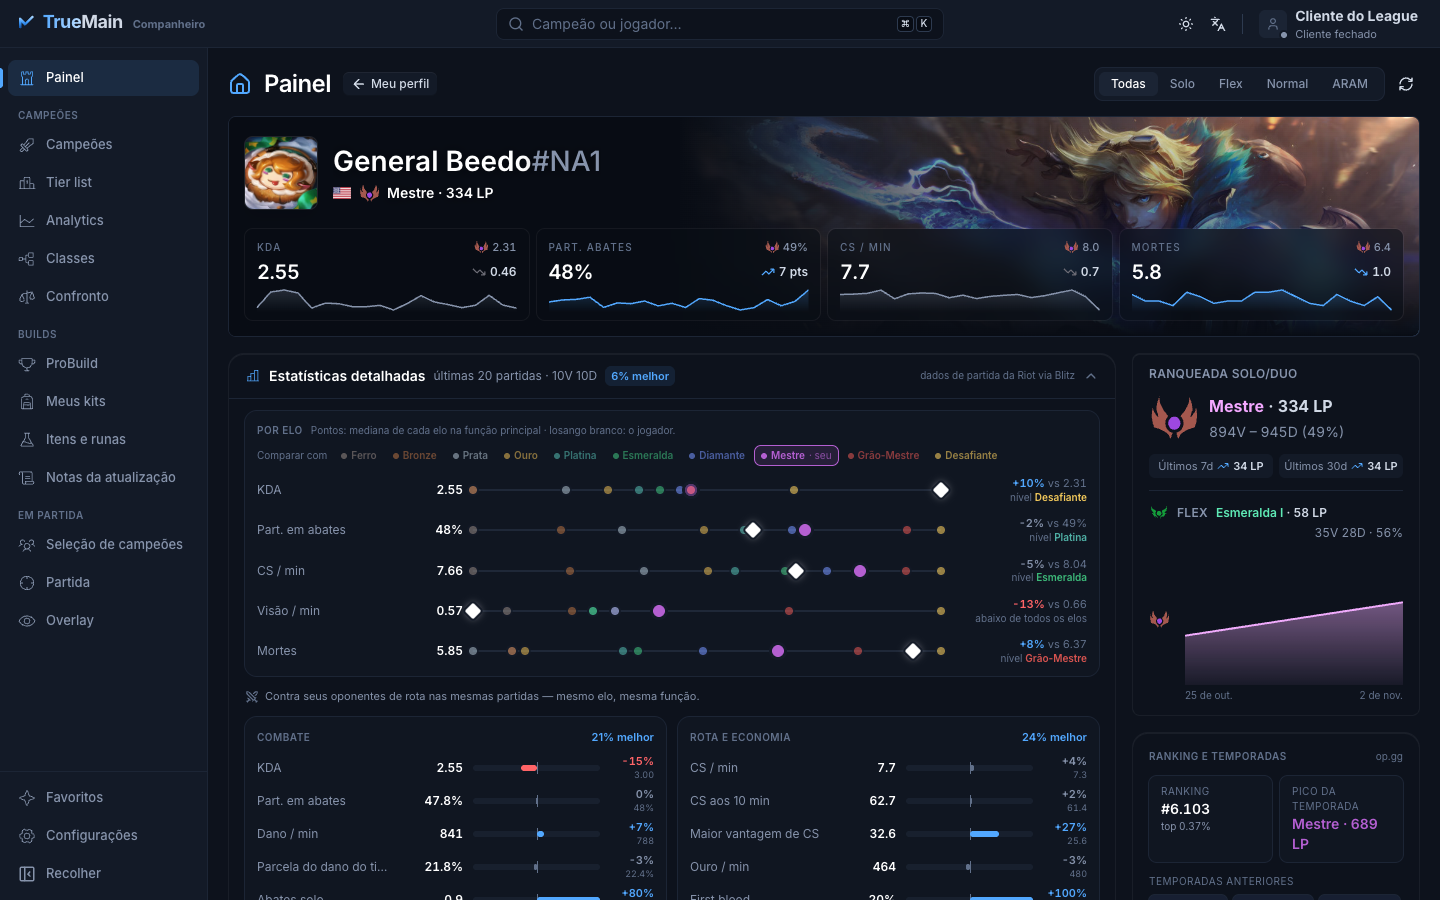
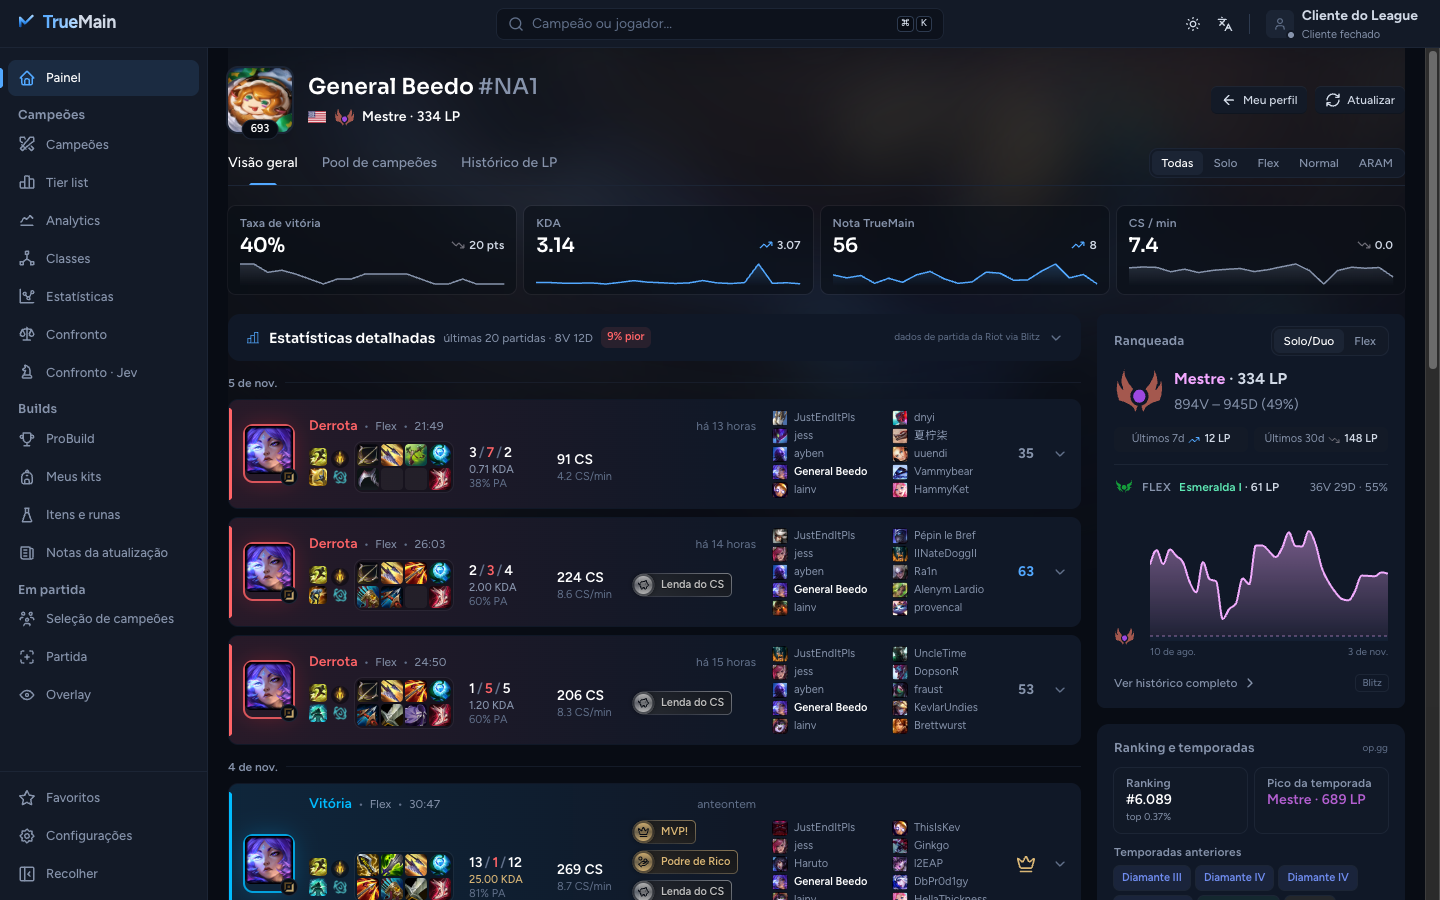
docs(readme): the Blitz features — profile tabs, post-match, counters, synergies, jungle paths, stats, one-tricks, suggestion weights, player card, Jev bases, Swiftplay — with new screenshots

diff --git a/README.md b/README.md
@@ -9,23 +9,29 @@ Um **companheiro para League of Legends**, em português do Brasil: lê o client
 
 ## Capturas de tela
 
-As imagens abaixo foram feitas no navegador, no modo de desenvolvimento, com dados reais das fontes (Blitz, lolalytics, op.gg e Data Dragon). As telas de seleção de campeões e partida usam *cenários de simulação* do próprio projeto, com contas e partidas fictícias, porque o League não estava aberto.
+As imagens abaixo foram feitas no navegador, no modo de desenvolvimento, com dados reais das fontes (Blitz, lolalytics, op.gg e Data Dragon). As telas de seleção de campeões, lobby do Swiftplay, pós-partida e partida usam *cenários de simulação* do próprio projeto, com contas e partidas fictícias, porque o League não estava aberto.
 
 | | |
 |---|---|
-| ![Painel de um jogador](docs/screenshots/dashboard.png)<br>**Painel:** o perfil de qualquer jogador — o seu (lido do cliente) ou o de quem você buscar ou clicar numa partida | ![Estatísticas detalhadas](docs/screenshots/stats.png)<br>**Estatísticas detalhadas:** por elo (régua com a mediana de cada elo) e contra os oponentes de rota; ranking e temporadas do op.gg |
-| ![Página de um campeão](docs/screenshots/champion.png)<br>**Campeão:** todas as opções medidas pela fonte escolhida, com taxa de vitória — runas, feitiços, iniciais, botas, núcleos e melhores jogadores | ![Analytics](docs/screenshots/analytics.png)<br>**Analytics:** tudo o que a fonte mede sobre um campeão, por rota e elo |
+| ![Painel de um jogador](docs/screenshots/dashboard.png)<br>**Painel:** o perfil de qualquer jogador — o seu (lido do cliente) ou o de quem você buscar ou clicar numa partida —, em abas como no Blitz: Visão geral, Pool de campeões e Histórico de LP | ![Estatísticas detalhadas](docs/screenshots/stats.png)<br>**Estatísticas detalhadas:** por elo (régua com a mediana de cada elo) e contra os oponentes de rota; ranking e temporadas do op.gg |
+| ![Histórico de LP](docs/screenshots/profile-lp.png)<br>**Histórico de LP:** Solo/Duo e Flex de qualquer jogador, a temporada inteira, com o início da temporada, o pico, o mínimo e o saldo | ![Pool de campeões da temporada](docs/screenshots/profile-pool.png)<br>**Pool de campeões:** a temporada rota por rota — partidas, campanha, taxa de vitória, KDA e LP de cada campeão |
+| ![Pós-partida](docs/screenshots/postmatch.png)<br>**Pós-partida:** quando a partida acaba, ela abre sozinha com "Como foi" — CS e visão por minuto contra o seu elo, as mortes e quando aconteceram — e o painel da partida aberto | ![Página de um campeão](docs/screenshots/champion.png)<br>**Campeão:** a divisão de dano, as opções medidas pela fonte e as builds por estilo (Bruiser, Lethality…), as de one-tricks e a sua anterior |
+| ![Counters de um campeão](docs/screenshots/counters.png)<br>**Counters:** contra quem o campeão é forte e fraco, pelo **pp** (o quanto o confronto foge do esperado), com a opção "só a fase de rotas" | ![Sinergias de um campeão](docs/screenshots/synergies.png)<br>**Sinergias:** os melhores aliados por rota, com tier, taxa de vitória e o ganho sobre o normal |
+| ![Rotas da selva](docs/screenshots/jungle.png)<br>**Rotas da selva** (op.gg): a limpeza completa mais jogada desenhada no mapa, por lado, e o acampamento inicial | ![Analytics com as rotas da selva](docs/screenshots/analytics-jungle.png)<br>**Analytics:** tudo o que a fonte mede sobre um campeão, por rota e elo — com as rotas da selva para quem joga na selva |
+| ![Estatísticas · Duplas](docs/screenshots/champion-stats.png)<br>**Estatísticas · Duplas:** as duplas que mais vencem juntas em duas rotas (atirador + suporte por padrão) | ![Estatísticas · Maestria](docs/screenshots/mastery.png)<br>**Estatísticas · Maestria:** a taxa de vitória por nível de maestria (5+ a 100+) e o quanto cada campeão melhora com experiência |
+| ![Lista de campeões](docs/screenshots/champions-list.png)<br>**Campeões:** a lista com runas, build principal e a coluna **Δ WR** — a variação da taxa de vitória desde o patch anterior | ![One-tricks no ProBuild](docs/screenshots/probuild-onetricks.png)<br>**ProBuild · One-tricks:** os jogadores que jogam o campeão em quase toda partida — elo, nota OTP, fatia do campeão e taxa de vitória |
 | ![Confronto](docs/screenshots/matchup.png)<br>**Confronto:** a build para o draft e as partidas reais do confronto | ![Busca](docs/screenshots/search.png)<br>**Busca (⌘K):** campeões e jogadores (`Nome#TAG`), com a região e o elo |
-| ![Fontes de dados](docs/screenshots/sources.png)<br>**Configurações:** a fonte de dados — TrueMain, Blitz, op.gg, lolalytics ou Tencent | ![ProBuild](docs/screenshots/probuild.png)<br>**ProBuild:** as partidas recentes de pros, vitória ou derrota em destaque |
-| ![Tier list](docs/screenshots/tierlist.png)<br>**Tier list:** os campeões por tier, em medalhas | ![Classes](docs/screenshots/classes.png)<br>**Classes:** campeões por classe e subclasse, com o papel de cada uma |
-| ![Itens](docs/screenshots/items.png)<br>**Itens:** descrição e receita em árvore | ![Runas](docs/screenshots/runes.png)<br>**Runas:** as árvores e a descrição colorida |
-| ![Seleção de campeões](docs/screenshots/draft.png)<br>**Seleção de campeões:** os times nas laterais com counters, a tier list da rota e as sugestões em pôsteres — da fonte ou reordenadas pelo Jev | ![Builds na seleção de campeões](docs/screenshots/draft-builds.png)<br>**Builds na seleção:** runas, feitiços, iniciais, ordem de itens e evolução num card só, com importação e as builds de pros |
-| ![Partida](docs/screenshots/ingame.png)<br>**Partida:** placar, próximo item e o que cada jogador vem fazendo | ![Notas da atualização](docs/screenshots/patchnotes.png)<br>**Notas da atualização:** patch a patch, atualizadas sozinhas |
-| ![Overlay de próximo item](docs/screenshots/overlay-next-item.png)<br>**Overlay:** o próximo item sobre o jogo, com a receita e a ordem da build | |
+| ![Seleção de campeões](docs/screenshots/draft.png)<br>**Seleção de campeões:** os times nas laterais com counters, seus favoritos e a tier list da rota, e as sugestões em pôsteres com os **pesos das sugestões** (os presets do Blitz) | ![Card do jogador na seleção](docs/screenshots/player-card.png)<br>**Card do jogador:** passe o mouse num aliado — elo, rota principal ou autofill, maestria no campeão, duo e mais jogados |
+| ![Builds na seleção de campeões](docs/screenshots/draft-builds.png)<br>**Builds na seleção:** runas, feitiços, iniciais, ordem de itens e evolução num card só, com importação e as builds de pros | ![Jev na seleção de campeões](docs/screenshots/draft-jev.png)<br>**Jev:** escolha em qual família ele monta a build — a rota, o confronto, um estilo do Blitz ou os one-tricks |
+| ![Swiftplay](docs/screenshots/lobby.png)<br>**Swiftplay:** no lobby, os dois campeões escolhidos, cada um com a sua build, importação de runas, feitiços e itens | ![Partida](docs/screenshots/ingame.png)<br>**Partida:** o dano de cada time, o próximo item, a ordem de habilidades e, por jogador, elo, duo, maestria e mais jogados |
+| ![Fontes de dados](docs/screenshots/sources.png)<br>**Configurações:** a fonte de dados — TrueMain, Blitz, op.gg, lolalytics ou Tencent | ![Tier list](docs/screenshots/tierlist.png)<br>**Tier list:** os campeões por tier, em medalhas |
+| ![Classes](docs/screenshots/classes.png)<br>**Classes:** campeões por classe e subclasse, com o papel de cada uma | ![Itens](docs/screenshots/items.png)<br>**Itens:** descrição e receita em árvore |
+| ![Runas](docs/screenshots/runes.png)<br>**Runas:** as árvores e a descrição colorida | ![Notas da atualização](docs/screenshots/patchnotes.png)<br>**Notas da atualização:** patch a patch, atualizadas sozinhas |
+| ![Overlay de próximo item](docs/screenshots/overlay-next-item.png)<br>**Overlay:** o próximo item sobre o jogo, com a receita e a ordem da build |  |
 
 **Tema claro:** o app tem tema escuro (o padrão) e claro, alternados pelo botão da barra superior. No claro, os painéis são brancos sobre um fundo cinza-azulado, com texto e destaque escurecidos para manter o contraste; os banners sobre arte de campeão continuam escuros.
 
-![Página de um campeão no tema claro](docs/screenshots/light.png)
+![Counters de um campeão no tema claro](docs/screenshots/light.png)
 
 ## O que o app faz
 
@@ -36,14 +42,23 @@ As imagens abaixo foram feitas no navegador, no modo de desenvolvimento, com dad
   - **análise do jogador:** estilo de jogo, pontos fortes, o que melhorar (com dicas), melhores campeões e melhores parceiros;
   - **estatísticas detalhadas** das últimas 20 partidas (≈25 métricas: dano, parcela do dano do time, CS aos 10, visão, objetivos, abates solo, skillshots…), cada uma **comparada aos oponentes de rota** nas mesmas partidas, com barras e veredito por grupo;
   - **comparação por elo:** KDA, participação, CS/min, visão/min e mortes numa régua com a mediana de cada elo (Ferro a Desafiante), com qualquer elo escolhido como referência;
-  - **ranking e temporadas** (op.gg): posição na ladder, pico da temporada e elos das temporadas anteriores.
-- **Campeões, tier list e Analytics:** builds com todas as opções medidas (runas, feitiços, iniciais, botas, núcleos e 4º/5º item com taxa de vitória), a sequência de itens em árvore, a ordem de habilidades com o vídeo, a descrição e os valores de cada uma ao passar o mouse, melhores jogadores e builds de pros, e uma página de **Analytics** com tudo o que a fonte mede sobre o campeão.
+  - **ranking e temporadas** (op.gg): posição na ladder, pico da temporada e elos das temporadas anteriores;
+  - **abas como no Blitz:** **Histórico de LP** de Solo/Duo e Flex (a temporada inteira, com pico, mínimo e saldo), **Pool de campeões** da temporada rota por rota (campanha, taxa de vitória, KDA e LP de cada campeão) e o card **Jogou com** (quem esteve no seu time em duas partidas ou mais);
+  - **pós-partida:** quando a partida acaba, o app abre nela — o resultado, o painel da partida aberto e "Como foi": CS e visão por minuto contra a mediana do seu elo e as mortes, com quando aconteceram.
+- **Campeões, tier list e Analytics:** builds com todas as opções medidas (runas, feitiços, iniciais, botas, núcleos e 4º/5º item com taxa de vitória), a sequência de itens em árvore, a ordem de habilidades com o vídeo, a descrição e os valores de cada uma ao passar o mouse, melhores jogadores e builds de pros, e uma página de **Analytics** com tudo o que a fonte mede sobre o campeão. A página do campeão tem ainda:
+  - **Counters:** contra quem ele é forte e fraco, ordenado pelo **pp** (o quanto o confronto foge do que as taxas dos dois campeões preveem), com a opção "só a fase de rotas";
+  - **Sinergias:** os melhores aliados por rota, com tier e o ganho de vitória sobre o normal;
+  - **Rotas da selva** (op.gg): a limpeza completa mais jogada no mapa, por lado, as mais jogadas e o acampamento inicial — também no Analytics e na seleção de campeões;
+  - **builds por estilo** (Bruiser, Lethality, AD… no Blitz), as dos **one-tricks** e a sua **build anterior** no campeão e rota.
+- **Estatísticas:** **Duplas** (as duplas que mais vencem em duas rotas) e **Maestria** (a taxa de vitória de 5+ a 100+ de maestria e o quanto cada campeão melhora com experiência). Na lista de campeões, a coluna **Δ WR** mostra a variação da taxa de vitória desde o patch anterior.
+- **ProBuild · One-tricks:** os jogadores que jogam o campeão em quase toda partida, com elo, nota OTP, partidas, fatia do campeão e taxa de vitória; o nome abre o perfil no app.
 - **Habilidades:** cada habilidade com o vídeo da Riot e a descrição do próprio jogo, com os valores resolvidos nível a nível.
 - **Meus kits:** builds suas (árvore de itens, página de runas e feitiços) para um campeão e as rotas escolhidas, oferecidas na seleção de campeões ao lado das do TrueMain; escolhido um kit, o overlay segue os itens dele.
 - **Confronto:** a build para o draft e as partidas reais do confronto, com o **medidor de dano** de cada time (físico, mágico e verdadeiro, medido pelo Blitz) e um aviso quando um time é de um tipo só.
-- **Confronto · Jev:** a build inteira (runas, feitiços, inicial, ordem de habilidades, botas e quando comprá-las, núcleo item a item e itens tardios) escolhida pelo [Jev](https://typesafe.ai) entre as opções medidas, ao lado da mais jogada. O Jev só lê textos — os kits inimigos e cada item, runa e feitiço, em inglês — e responde perguntas; o app faz as contas com as estatísticas do lolalytics e do Blitz somadas partida a partida. Cada opção mostra a taxa de escolha, a de vitória e as checagens que pesaram; itens situacionais respondem ao draft (penetração contra linha de frente, resistência mágica, antecura). Importa runas e item set para o cliente e segue a seleção de campeões sozinha. Precisa de uma chave do Jev em Configurações (guardada pelo app, nunca exposta à interface); cada pedido é pago, por isso o Jev só é chamado num clique.
-- **Seleção de campeões:** tudo numa tela, sem rolar, como numa transmissão. Os dois times ficam nas laterais, com os counters de cada inimigo na própria rota, o medidor de dano, a tier list da rota e os counters do oponente. No centro, um card com as abas **Sugestões** (pôsteres de todas as sugestões, com a nota e o motivo) e **Builds** (runas, feitiços, iniciais, ordem de itens, botas, situacionais e ordem de evolução, as builds contra o oponente de rota e as de pros num menu). A build pesa a vitória de cada item pela amostra, responde a curas com antecura e segue o time inimigo para botas e itens (ex.: um atirador contra três magos leva Mercúrio e resistência mágica), mostrando o motivo sempre que foge da mais jogada. O seletor **Fonte | Jev** faz o Jev reordenar as sugestões (com o detalhamento da nota) e montar a build do draft. Por padrão, runas e conjuntos de itens só vão para o cliente **quando você clica**; com a **importação automática** ligada (Configurações), a build vai sozinha ao travar o campeão, como no Blitz. Só a página de runas e os conjuntos do próprio TrueMain são substituídos; com a lista de páginas cheia, o app libera a página menos usada (uma inválida primeiro), como o Blitz.
-- **Partida e overlay:** placar das duas equipes, próximo item com a receita e a ordem da build, timers de objetivos e painéis sobre o jogo.
+- **Confronto · Jev:** a build inteira (runas, feitiços, inicial, ordem de habilidades, botas e quando comprá-las, núcleo item a item e itens tardios) escolhida pelo [Jev](https://typesafe.ai) entre as opções medidas, ao lado da mais jogada. O Jev só lê textos — os kits inimigos e cada item, runa e feitiço, em inglês — e responde perguntas; o app faz as contas com as estatísticas do lolalytics e do Blitz somadas partida a partida. Cada opção mostra a taxa de escolha, a de vitória e as checagens que pesaram; itens situacionais respondem ao draft (penetração contra linha de frente, resistência mágica, antecura). Importa runas e item set para o cliente e segue a seleção de campeões sozinha. Na seleção de campeões, você escolhe a **família** em que o Jev monta a build — a rota toda, o confronto contra o oponente, um estilo do Blitz (Bruiser, Lethality…) ou os one-tricks — e o nome do conjunto importado acompanha (`Aatrox vs Akali · Jev Lethality`). Depois que ele responde, cada build da lista ganha uma nota de 0 a 100 do quanto responde ao draft, e a melhor fica marcada como a escolha do Jev, sem nova chamada. Precisa de uma chave do Jev em Configurações (guardada pelo app, nunca exposta à interface); cada pedido é pago, por isso o Jev só é chamado num clique.
+- **Seleção de campeões:** tudo numa tela, sem rolar, como numa transmissão. Os dois times ficam nas laterais, com os counters de cada inimigo na própria rota, o medidor de dano, a tier list da rota e os counters do oponente. No centro, um card com as abas **Sugestões** (pôsteres de todas as sugestões, com a nota e o motivo) e **Builds** (runas, feitiços, iniciais, ordem de itens, botas, situacionais e ordem de evolução, as builds contra o oponente de rota e as de pros num menu). A build pesa a vitória de cada item pela amostra, responde a curas com antecura e segue o time inimigo para botas e itens (ex.: um atirador contra três magos leva Mercúrio e resistência mágica), mostrando o motivo sempre que foge da mais jogada. O seletor **Fonte | Jev** faz o Jev reordenar as sugestões (com o detalhamento da nota) e montar a build do draft. Os **pesos das sugestões** seguem os presets do Blitz (Equilibrado, One Trick, Segue o meta, Counter puro, Dono da rota, Jogador de equipe, Subir de elo) ou os seus, com uma maestria mínima; passar o mouse num aliado mostra o **card do jogador** (elo, rota principal ou autofill, maestria, duo e mais jogados); os seus **favoritos** ficam numa lista ao lado, com escolher e banir num clique. Por padrão, runas e conjuntos de itens só vão para o cliente **quando você clica**; com a **importação automática** ligada (Configurações), a build vai sozinha ao travar o campeão, como no Blitz. Só a página de runas e os conjuntos do próprio TrueMain são substituídos; com a lista de páginas cheia, o app libera a página menos usada (uma inválida primeiro), como o Blitz.
+- **Swiftplay:** no lobby, os dois campeões escolhidos, cada um com a sua build; dá para trocar campeão e rota e importar runas (na página de cada campeão, como o Blitz faz), feitiços e itens.
+- **Partida e overlay:** o dano de cada time, o próximo item com a receita e a ordem da build, a ordem de habilidades com o próximo ponto, e por jogador o elo, duo ou trio, maestria e mais jogados; timers de objetivos e painéis sobre o jogo.
 - **Zoom:** ⌘/Ctrl + `+`, `−` e `0` ampliam o app como no navegador.
 - **Português do Brasil** em todo o app, inclusive nos nomes de itens, campeões e runas.
 
@@ -59,7 +74,7 @@ Em **Configurações → Fonte de dados**, todas as telas de estatísticas passa
 | **lolalytics** *(experimental)* | A mais detalhada: cada runa, item por slot, matchups, objetivos, duração de partida |
 | **Tencent** *(experimental)* | Os guias do lol.qq.com (servidores chineses, atualizados diariamente): páginas de runa completas, núcleos, ordem de habilidades e matchups |
 
-Builds e runas vêm **sempre da fonte escolhida**, sem misturar. O que ela não tiver vem do lolalytics e, depois, do Blitz, cada resposta inteira de uma fonte só; a única soma é a classificação do Confronto · Jev (lolalytics + Blitz). Os dados do TrueMain só são usados com o TrueMain escolhido.
+Builds e runas vêm **sempre da fonte escolhida**, sem misturar. O que a fonte escolhida não mede (counters com pp, sinergias, duplas, maestria, histórico de LP, pool da temporada, one-tricks, a referência do pós-partida) vem de outra que mede — o Blitz primeiro —, e um selo diz de onde vieram os números. O que ela não tiver vem do lolalytics e, depois, do Blitz, cada resposta inteira de uma fonte só; a única soma é a classificação do Confronto · Jev (lolalytics + Blitz). Os dados do TrueMain só são usados com o TrueMain escolhido.
 
 As fontes marcadas como experimentais usam endpoints públicos que os sites não documentam e podem mudar sem aviso. Nenhuma fonte é lida contornando proteções: sites que exigem burlar anti-bot ficaram de fora.
 
@@ -76,6 +91,7 @@ Em relação ao [projeto original](https://github.com/ilyanfraimbault/TrueMain):
 - **Atualização automática:** o app se atualiza pelas releases deste fork, mostrando o progresso do download num aviso no canto.
 - **Confronto · Jev:** build e runas classificadas com o [Jev](https://typesafe.ai) — ele lê os kits inimigos e cada item, o app junta isso às estatísticas do lolalytics e do Blitz — com importação de runas e item set para o cliente.
 - **Medidor de dano dos times:** físico, mágico e verdadeiro de cada time, medido pelo Blitz, na seleção de campeões, no Confronto e no Confronto · Jev.
+- **Do Blitz para o TrueMain:** counters com pp, sinergias, duplas, maestria, Δ WR por patch, rotas da selva (op.gg), histórico de LP e pool da temporada de qualquer jogador, pós-partida, pesos das sugestões, card do jogador, favoritos, one-tricks, builds por estilo e a anterior, e o Swiftplay.
 - **Seleção de campeões nova:** tudo numa tela — times nas laterais com counters, sugestões em pôsteres, a build num card só (com a de pros a um clique) e um seletor **Fonte | Jev** para o Jev reordenar as sugestões e montar a build do draft.
 - **Perfil e partidas no estilo Blitz:** badges com o motivo, painel da partida com abas e linha do tempo, maestria com os pontos exatos e análise do jogador.
 - **Simulador sem compilar:** `./sim-lcu.sh` abre uma seleção de campeões simulada e o app no navegador, lado a lado.
